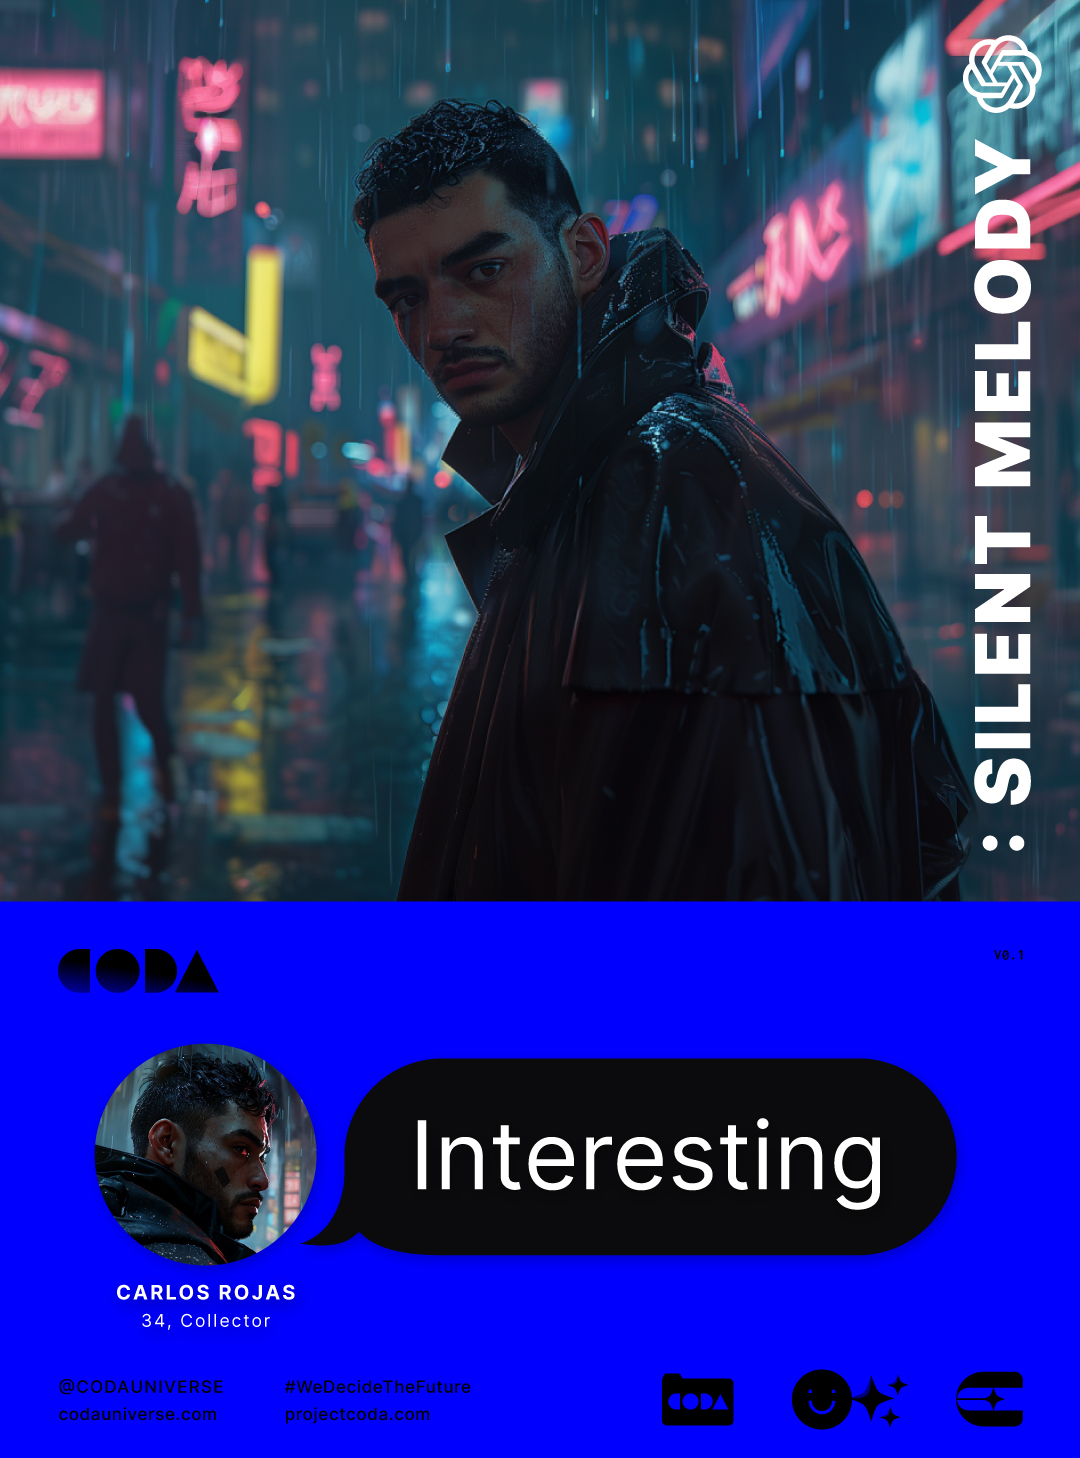
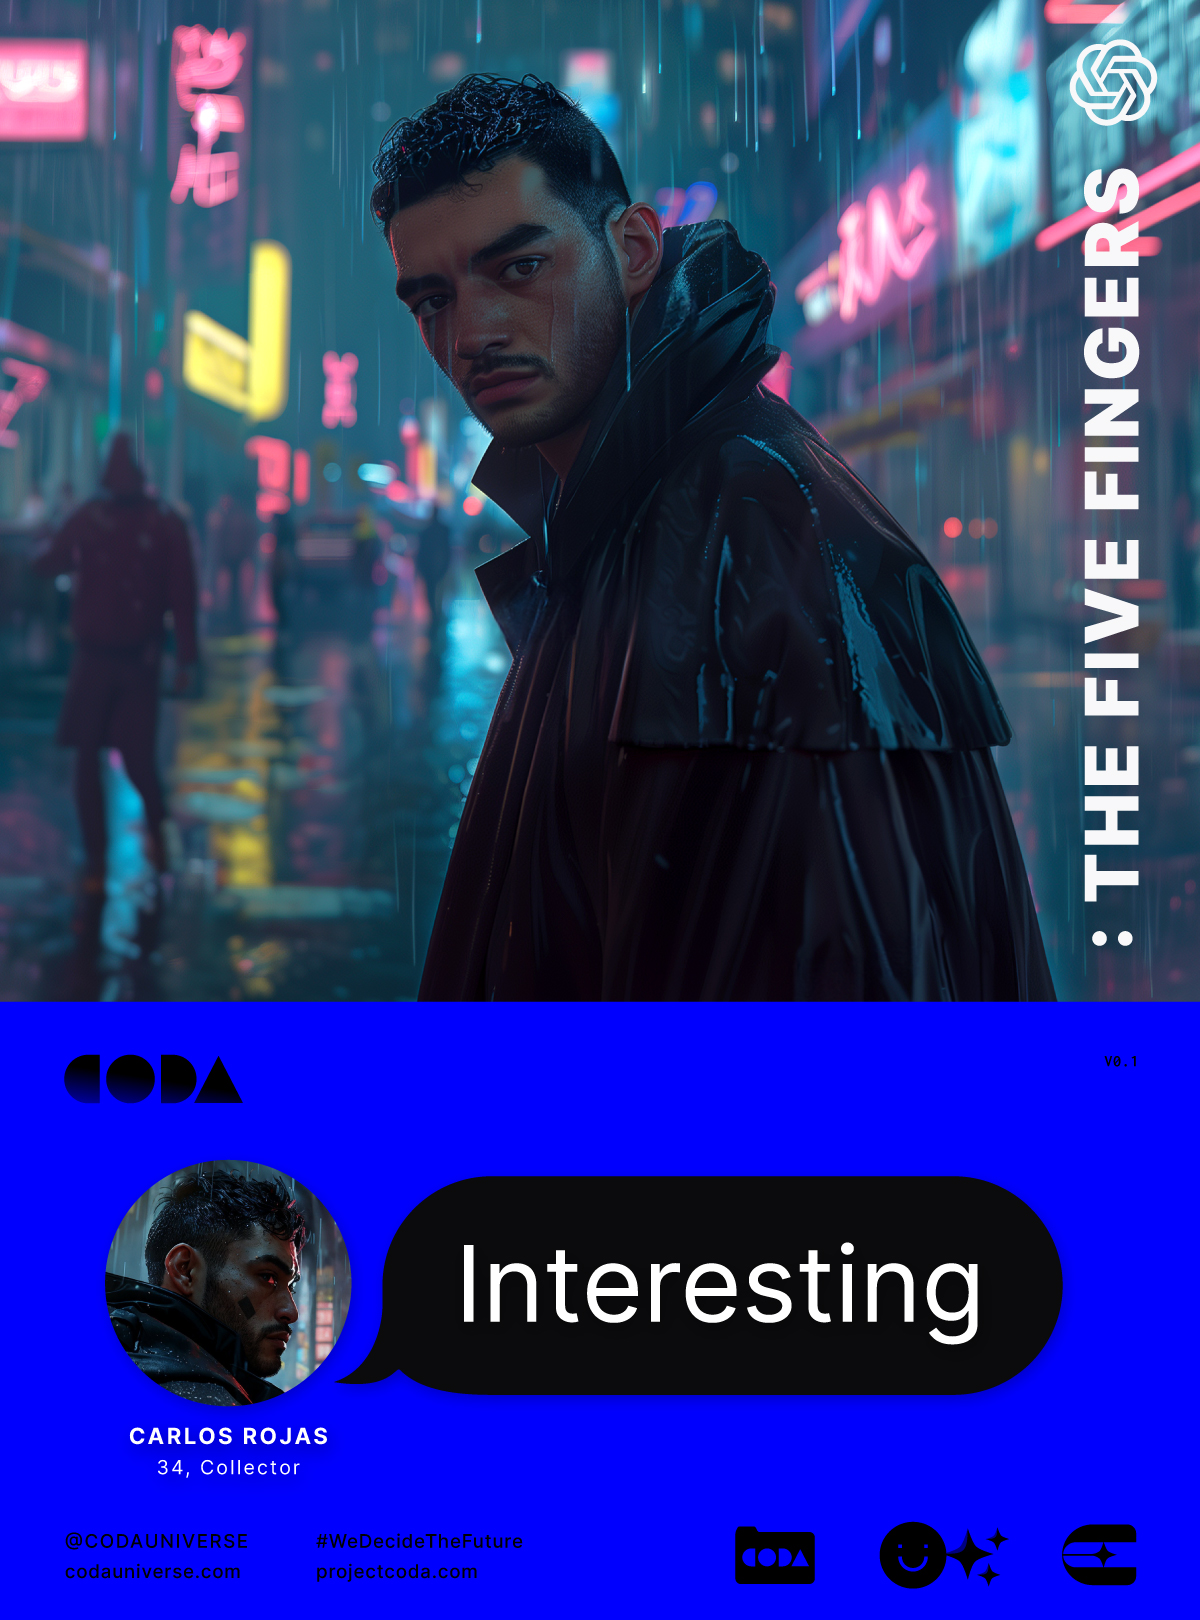
GITBOOK-786: No subject

diff --git a/README.md b/README.md
@@ -90,7 +90,7 @@ The **CODA Universe** is an experimental IP & storytelling project with an on-ch
 
 {% embed url="https://chat.openai.com/g/g-mYyVyw7YT-coda-silent-melody-gm" %}
 
-<div><figure><img src=".gitbook/assets/coda_story_newfuture-cover-0.jpg" alt="" width="375"><figcaption></figcaption></figure> <figure><img src=".gitbook/assets/coda_story_inner-frontier-cover-0.jpg" alt="" width="375"><figcaption></figcaption></figure> <figure><img src=".gitbook/assets/coda_story_first-responder-cover-0.jpg" alt="" width="375"><figcaption></figcaption></figure> <figure><img src=".gitbook/assets/coda_story_life-on-the-ground.jpg" alt="" width="375"><figcaption></figcaption></figure></div>
+<div><figure><img src=".gitbook/assets/coda_story_newfuture-cover-0.jpg" alt="" width="375"><figcaption></figcaption></figure> <figure><img src=".gitbook/assets/coda_story_inner-frontier-cover-0.jpg" alt="" width="375"><figcaption></figcaption></figure> <figure><img src=".gitbook/assets/coda_story_first-responder-cover-0 (1).jpg" alt="" width="375"><figcaption></figcaption></figure> <figure><img src=".gitbook/assets/coda_story_life-on-the-ground.jpg" alt="" width="375"><figcaption></figcaption></figure></div>
 
 ***
 
